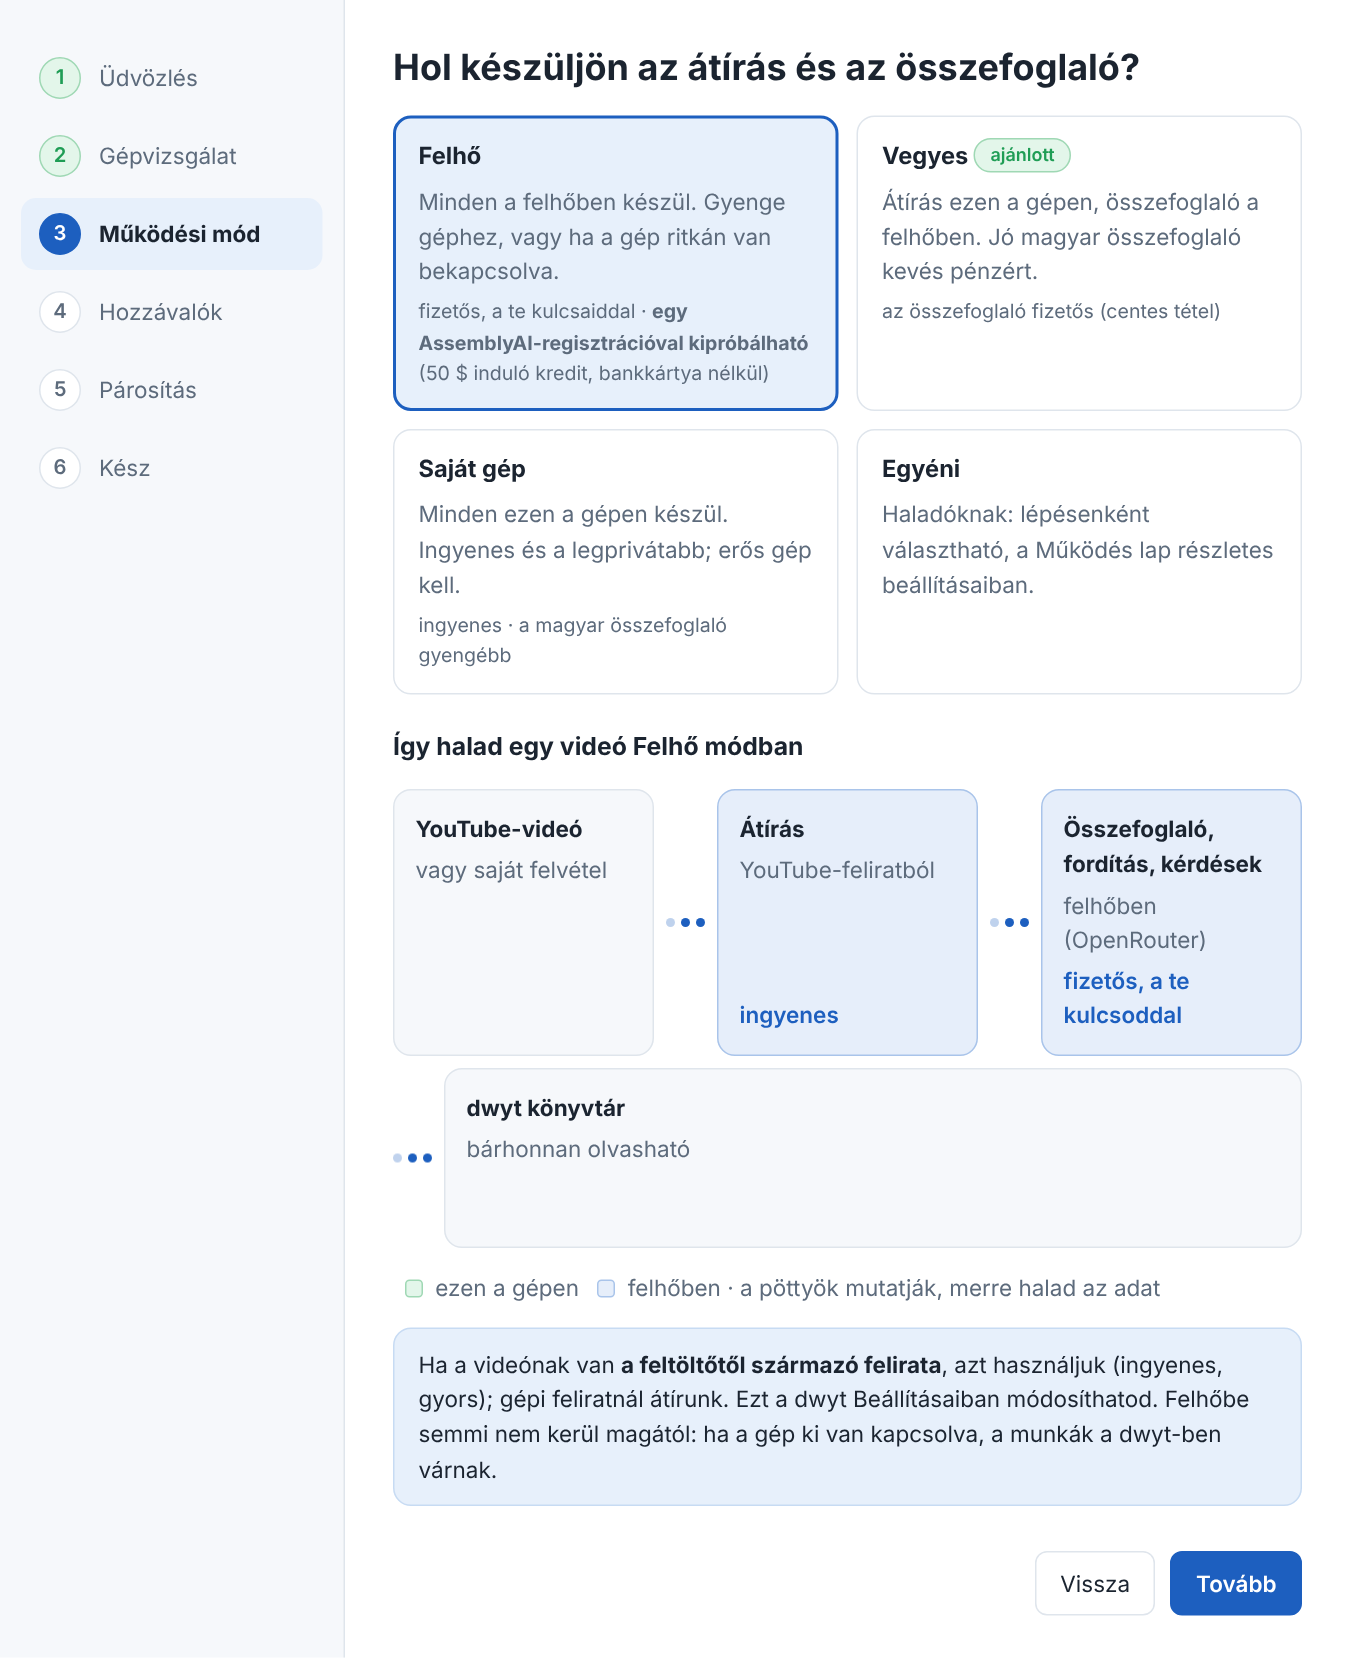
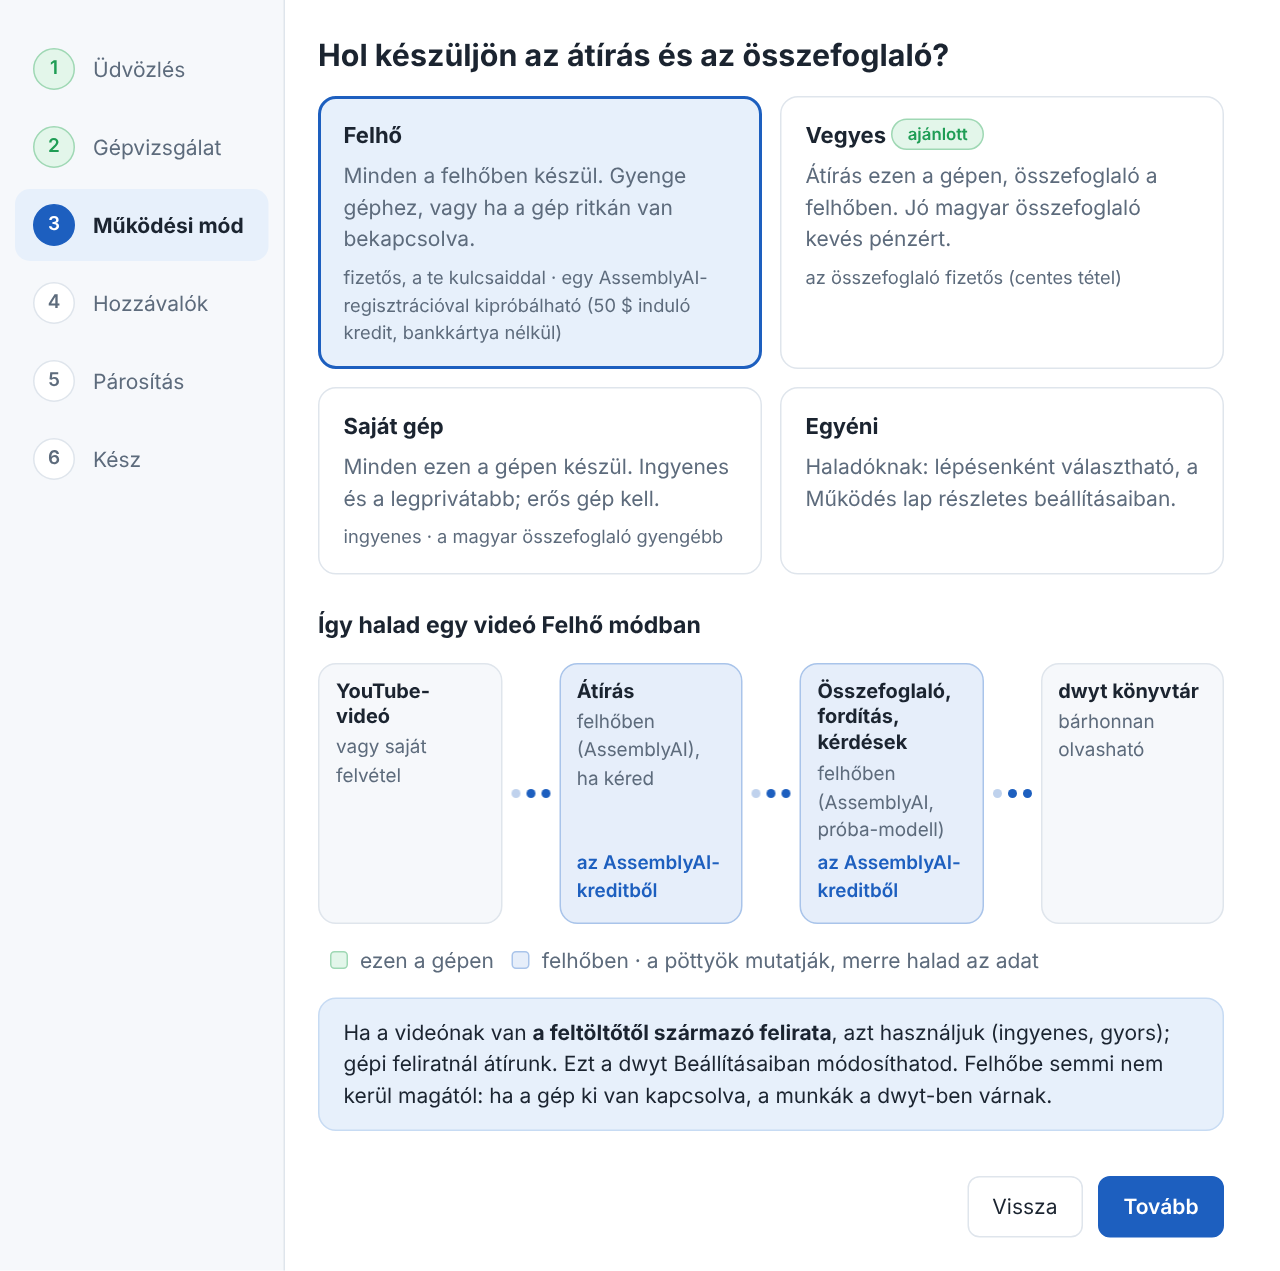
Decision 19.9: a trial with one AssemblyAI key (dwyt-runner 0.12, dwyt-central 0.17.5)
- terv.md: 19.9 and 19a item 17 done; the smaller runner window in the same change
- protokoll.md: model info field `trial`, server kind "AssemblyAI LLM Gateway"
- schemas/runner-settings.json regenerated; guides mention the one-registration trial
- docs/minta-17: the real pages of runner 0.12 (the flow stays in one row)

Claude-Session: https://claude.ai/code/session_017pkEDZAixn3ocCLi8rQrXh

diff --git a/docs/protokoll.md b/docs/protokoll.md
@@ -67,7 +67,7 @@ Válasz: `204` (nincs munka; a futtató azonnal újra kér) vagy `200`:
 - **Fordítás** (`translate`, a 3. körtől): az átirat szegmensei sorszámmal; a futtató a sorszámokat megtartva adja vissza a magyar sorokat ([translate-result](../schemas/translate-result.schema.json)), a ki nem fordított sorokat kihagyja, és a számukat a `missing` mezőben jelzi. A modellt a szerep szerint maga választja (`private` → `llm_private_model`; `public` → `llm_translate_model`, ha van, különben `llm_public_model`).
 - **Választott modell** (3c): az `llm_models` képesség szerepenként sorolja fel, mely modelleket ajánlja fel a futtató a felhasználónak (az alapmodellek és az `llm_models`, illetve saját felvételhez az `llm_private_models` beállítás). Az elemoldalon választott modell a munka bemenetében `model` mezőként érkezik; a futtató csak a saját listájából fogad el modellt, mást végleges hibával (`never`) visszaad. `model` nélkül a szerep szerinti alapmodell dolgozik. Az összefoglaló utasítását a futtató írja; a verziószámát (`prompt_version`) az eredménnyel együtt visszaküldi.
 
-- **Modell-leírás** (17.4): az `llm_model_info` nevenként mondja meg, mi fut a név mögött: `description` (mire való), `where` (`local` / `cloud`), `target` és `target_label` (a modell), `provider`, `context` (token), `vision`, `thinking` (`true` / `false`; hiányzik = a modell alapértelmezése), `thinking_budget`, és `fallback` (legfeljebb 3 tartalék ugyanilyen mezőkkel és a `name`-mel: mi válaszol, ha a GPU-gép ki van kapcsolva). Az `llm_server` az LLM-szerver fajtája (`LiteLLM`, `OpenRouter`, `OpenAI-kompatibilis szerver`), az `llm_defaults` feladatonként (`summarize`, `translate`, `ask`, `private`) az alapmodell neve. A dwyt-airouter LiteLLM-je a `/model/info` válaszában `model_info.dwyt` alatt adja ezeket; a futtató csak a felsorolt mezőket küldi tovább (kulcsot, címet soha), és óránként frissíti. A központ is csak ezeket a mezőket tárolja (legfeljebb 40 név, 40 000 karakter); ha a mezők hiányoznak, régebbi futtatónak tekinti. Mindhárom csak tájékoztatás: azt, hogy mi kérhető, továbbra is az `llm_models` dönti el.
+- **Modell-leírás** (17.4): az `llm_model_info` nevenként mondja meg, mi fut a név mögött: `description` (mire való), `where` (`local` / `cloud`), `target` és `target_label` (a modell), `provider`, `context` (token), `vision`, `thinking` (`true` / `false`; hiányzik = a modell alapértelmezése), `thinking_budget`, `trial` (`true`: próba-modell, például az AssemblyAI LLM Gateway kis modellje; a központ figyelmeztet a vele készült összefoglaló alatt, 19.9), és `fallback` (legfeljebb 3 tartalék ugyanilyen mezőkkel és a `name`-mel: mi válaszol, ha a GPU-gép ki van kapcsolva). Az `llm_server` az LLM-szerver fajtája (`LiteLLM`, `OpenRouter`, `AssemblyAI LLM Gateway`, `OpenAI-kompatibilis szerver`), az `llm_defaults` feladatonként (`summarize`, `translate`, `ask`, `private`) az alapmodell neve. A dwyt-airouter LiteLLM-je a `/model/info` válaszában `model_info.dwyt` alatt adja ezeket; a futtató csak a felsorolt mezőket küldi tovább (kulcsot, címet soha), és óránként frissíti. A központ is csak ezeket a mezőket tárolja (legfeljebb 40 név, 40 000 karakter); ha a mezők hiányoznak, régebbi futtatónak tekinti. Mindhárom csak tájékoztatás: azt, hogy mi kérhető, továbbra is az `llm_models` dönti el.
 
 - **Felirat használata** (18.9): a felirat-munkánál a futtató a megtalált sávot küldi (`caption_kind`: `manual` vagy `auto`), ahogy eddig. A központ dönti el a felhasználó szabálya szerint, hogy megtartja-e: ha nem, az eredményt nem tárolja, a válasz `{"rejected": "…"}`, és a munka a feliratkozási láncban továbblép, kézi beküldésnél hibával zárul. A futtatón ehhez nincs teendő.
 

diff --git a/docs/utmutato/windows.md b/docs/utmutato/windows.md
@@ -15,7 +15,7 @@ A futtató ablaka lépésenként végigvezet:
 1. **Üdvözlés.**
 2. **A géped:** videókártya, memória, szabad hely; a **Próbafuttatás** egy 33 másodperces mintát ír át, és egy rövid összefoglalót készít, majd lámpákkal megmondja, mire elég a gép.
 3. **Működési mód:** Felhő, Vegyes, Saját gép vagy Egyéni (lásd az [útmutatók elején](README.md)).
-4. **Hozzávalók:** csak ami a választott módhoz kell. Például a beszédfelismerő letöltése (kb. 3,5 GB, egyszer), az OpenRouter- vagy AssemblyAI-kulcs (a futtató azonnal kipróbálja), a helyi modellszerver (Ollama / LM Studio) elindítása és egy modell letöltése. A kulcsokat a Windows Hitelesítőadat-kezelője őrzi; a dwyt nem látja őket.
+4. **Hozzávalók:** csak ami a választott módhoz kell. Például a beszédfelismerő letöltése (kb. 3,5 GB, egyszer), az OpenRouter- vagy AssemblyAI-kulcs (a futtató azonnal kipróbálja; Felhő módban kiválasztod, ki írja az összefoglalót: az AssemblyAI próba-modellje ugyanazzal a kulccsal, vagy az OpenRouter), a helyi modellszerver (Ollama / LM Studio) elindítása és egy modell letöltése. A kulcsokat a Windows Hitelesítőadat-kezelője őrzi; a dwyt nem látja őket.
 5. **Párosítás:** a futtató megnyitja a dwyt Futtatók oldalát a kóddal kitöltve. Nézd meg, hogy a kód ugyanaz-e, mint a futtató ablakában, és nyomd meg a **Jóváhagyás** gombot.
 6. **Kész:** ha szeretnéd, a futtató bejelentkezéskor magától elindul (csak a tálcaikon, ablak nélkül).
 

diff --git a/docs/utmutato/README.md b/docs/utmutato/README.md
@@ -12,7 +12,7 @@ Mindegyikhez kell egy dwyt-fiók. A letöltések és a telepítőparancs a dwyt 
 
 **Melyik működési mód?** A telepítés közben a futtató megvizsgálja a gépet, és ajánl egyet:
 
-- **Felhő:** az átírás az AssemblyAI-nál, az összefoglaló egy felhős nyelvi modellel (például OpenRouter) készül, a saját kulcsaiddal. Gyenge gépen is jó; a felhős átírás csak akkor indul, ha kifejezetten kéred, egyébként a YouTube saját feliratát használja.
+- **Felhő:** az átírás az AssemblyAI-nál, az összefoglaló egy felhős nyelvi modellel készül, a saját kulcsaiddal. Kipróbálni elég egyetlen AssemblyAI-regisztráció (50 $ induló kredit, bankkártya nélkül): akkor az összefoglalót is az AssemblyAI írja, egy kis próba-modellel (a magyar szöveg gyengébb lehet); jobb minőséghez OpenRouter-kulcs vagy feltöltött AssemblyAI-egyenleg kell. Gyenge gépen is jó; a felhős átírás csak akkor indul, ha kifejezetten kéred, egyébként a YouTube saját feliratát használja.
 - **Vegyes:** az átírás a gépeden (whisper.cpp), az összefoglaló a felhőben. Ajánlott 8–16 GB-os videókártyánál.
 - **Saját gép:** minden a gépeden (az összefoglalót Ollama vagy LM Studio írja). Ingyenes, de a kis helyi modellek magyar összefoglalója gyengébb.
 - **Egyéni:** például külön GPU-gép (dwyt-airouter, dwyt-gpu) vagy saját LiteLLM.
